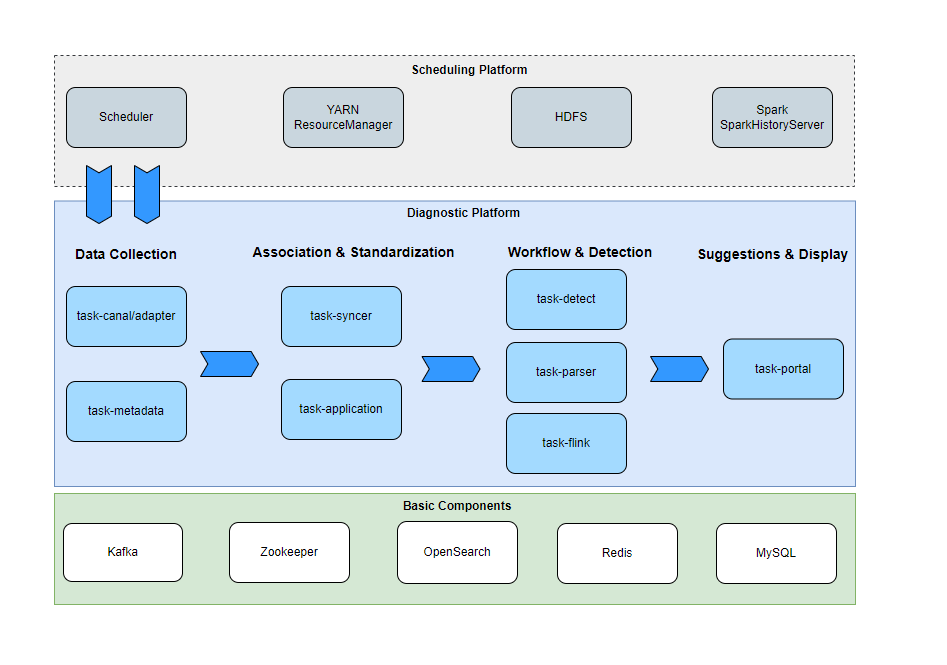
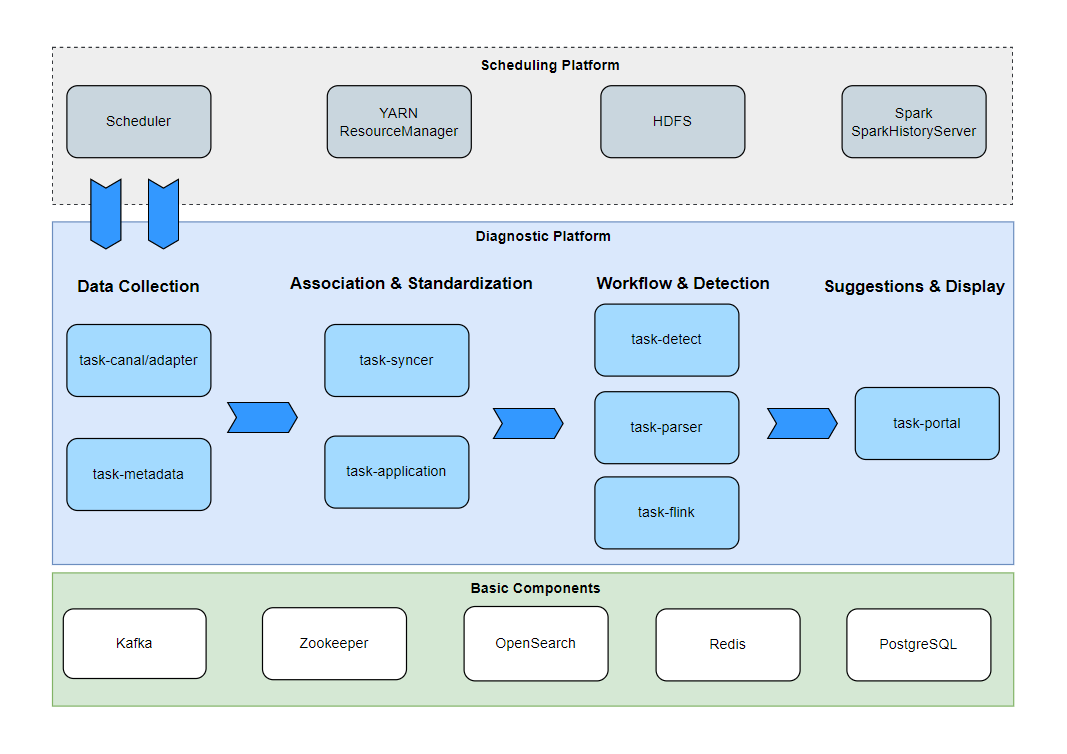
update: task-gpt docs and architecture img

diff --git a/docker/playground/README.md b/docker/playground/README.md
@@ -46,7 +46,7 @@ You can just start a compass demo (Optional)
 docker compose --profile compass-demo up -d
 ```
 
-To Start compass all components, You should dowload [canal.deployer](https://github.com/alibaba/canal/releases/download/canal-1.1.6/canal.deployer-1.1.6.tar.gz) and [canal.adapter](https://github.com/alibaba/canal/releases/download/canal-1.1.6/canal.adapter-1.1.6.tar.gz) first,
+To Start compass all components, You should download [canal.deployer](https://github.com/alibaba/canal/releases/download/canal-1.1.6/canal.deployer-1.1.6.tar.gz) and [canal.adapter](https://github.com/alibaba/canal/releases/download/canal-1.1.6/canal.adapter-1.1.6.tar.gz) first,
 
 then modify the conf/compass_env.sh and application-hadoop.yml configuration.
 

diff --git a/document/manual/deployment.md b/document/manual/deployment.md
@@ -696,6 +696,23 @@ custom:
      ...
 ```
 
+## task-gpt
+
+The task-gpt module is used to aggregate log templates and use ChatGPT to provide solutions for the templates.
+
+### Configuration
+
+conf/application.yml
+```
+chatgpt:
+  enable: true
+  apiKeys: "sk-xxx1,sk-xxx2"
+  proxy: "https://proxy"
+  model: "gpt-3.5-turbo"
+  prompt: "You are a senior expert in big data, teaching beginners. I will give you some anomalies and you will provide solutions to them."
+```
+
+
 ## task-portal and task-ui
 
 **task-portal** and **task-ui** are visual front-end and back-end modules that provide services such as diagnostic recommendations, report overviews, one-click diagnosis, task execution, APP execution, and whitelist.

diff --git a/document/manual/deployment_zh.md b/document/manual/deployment_zh.md
@@ -704,6 +704,23 @@ custom:
      ...
 ```
 
+## task-gpt
+
+task-gpt模块用于聚合日志模板，并使用chatgpt给模板解决方案
+
+### 核心配置
+
+conf/application.yml
+```
+chatgpt:
+  enable: true
+  apiKeys: "sk-xxx1,sk-xxx2"
+  proxy: "https://proxy"
+  model: "gpt-3.5-turbo"
+  prompt: "你是一位资深大数据专家，教导初始者，我会给你一些异常，你将提供异常的解决方案"
+```
+
+
 ## task-portal 与 task-ui
 
 task-portal 与 task-ui 可视化前后端模块，提供诊断建议、报告总览、一键诊断、任务运行、APP运行、白名单等服务
